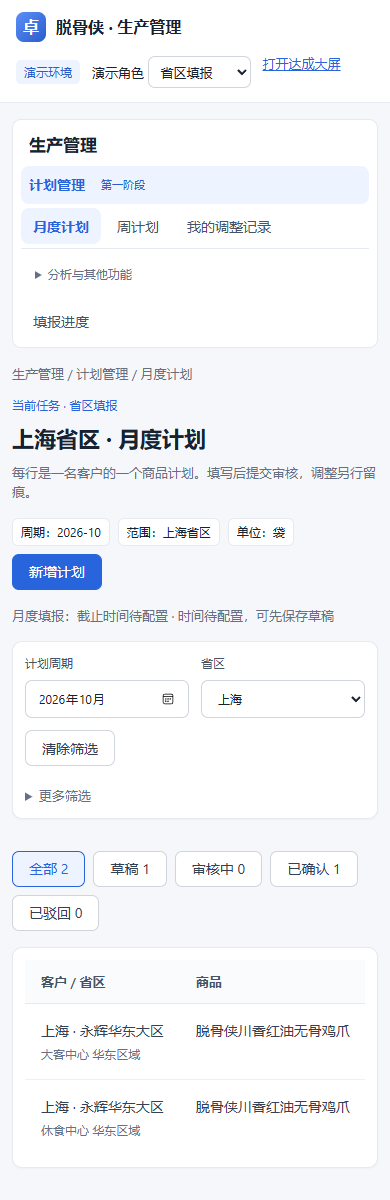
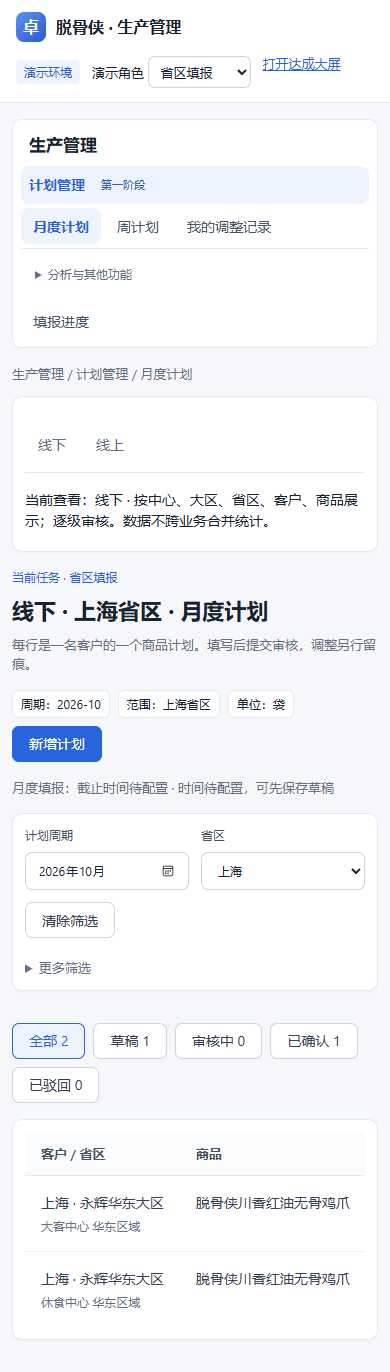
Auto sync 2026-10-12 14:31:31

diff --git a/09-设计与原型/销售计划管理/计划业务补充.js b/09-设计与原型/销售计划管理/计划业务补充.js
@@ -10,7 +10,7 @@
  function fillGuard(d,role,p){initialize(d);const scope=d.access[role];if(scope?.enabled){if(p.business==='offline'&&(!scope.provinces.includes(p.province)||!scope.centers.includes(p.center)||!scope.customers.includes(p.customer)))return '当前演示人员不在该中心、省区或客户授权范围，请联系规则管理员。';if(p.business==='online'&&!scope.channels.includes(p.channel))return '该渠道不在授权范围。';}return '';}
  function floor(d,p){return Math.max(0,SalesPlan.linked(d,p).reduce((s,o)=>s+(o.status==='取消'?0:o.qty-o.returned),0));}
  function adjustGuard(d,p,after){initialize(d);const policy=d.businessSettings.adjustPolicy;if(policy==='pending')return '普通数量调整时限尚未配置，请由规则管理员确认规则后再申请。';if(p.archived)return '已归档计划不能调整。';if(policy==='beforeStart'&&p.start<=today())return '此规则仅允许执行开始前调整。';if(policy==='untilLocked'&&p.productionLocked)return '计划已锁定供生产使用，不能普通调整；请联系计划部门处理。';if(after<floor(d,p))return '调整后数量不能低于已执行净数量 '+floor(d,p)+' '+p.unit+'。';return '';}
- function notify(d,to,title,text){initialize(d);d.notifications.push({id:'N'+Date.now()+Math.random().toString(36).slice(2,6),to,title,text,at:new Date().toISOString(),read:false});}
+ function notify(d,to,title,text){initialize(d);d.notifications.push({id:'N'+Date.now()+Math.random().toString(36).slice(2,6),to,title,text,business:d.plans.find(p=>String(text).split(' · ')[0]===p.id)?.business||'common',at:new Date().toISOString(),read:false});}
  function onLog(d,p,role,action){initialize(d);if(/提交/.test(action))notify(d,SalesPlan.chain(p)[Math.max(0,p.stage)],'计划已提交',p.id+' · '+p.customer+' · '+p.qty+' '+p.unit);if(/驳回|审核通过/.test(action)){notify(d,p.business==='online'?'线上运营':'省区填报',action,p.id);const next=SalesPlan.chain(p)[p.stage+1];if(/通过/.test(action)&&next)notify(d,next,'上级审核待办',p.id);}if(/调整/.test(action)){notify(d,p.business==='online'?'线上运营':'省区填报','计划调整进度',p.id+' · '+action);const pending=d.adjustments.filter(v=>v.plan===p.id&&['待OA审批','待计划部门审核'].includes(v.status)).at(-1);if(pending)notify(d,pending.approver,'计划调整待办',p.id+' · '+pending.reason);}}
  function editable(a,p){return a.role()===(p.business==='online'?'线上运营':'省区填报')&&(p.stage<0||p.rejected)&&!p.archived&&!PlanChange.pending(a.data(),p);}
  function enhanceBatch(a,f,x,ctx){const d=a.data();if(ctx.editing){document.getElementById('addLine').disabled=true;document.getElementById('copyPrevious').disabled=true;const title=document.getElementById('dialogTitle');title.textContent=ctx.editing.rejected?'修改驳回计划 '+ctx.editing.id:'继续编辑草稿 '+ctx.editing.id;const reason=ctx.editing.history.filter(h=>/驳回/.test(h.action)).at(-1);if(reason){const notice=document.createElement('p');notice.className='notice';notice.textContent='驳回意见：'+(reason.opinion||'请核对计划');f.prepend(notice);}return;}
@@ -24,8 +24,8 @@
  function comparison(d,selected){const months=approved(d).filter(p=>canView(d,role,p)&&p.kind==='month'&&selected.some(x=>x.business===p.business&&x.start.slice(0,7)===p.start.slice(0,7)));return `<div class="table-wrap"><table><thead><tr><th>客户 / 渠道</th><th>商品 / 单位</th><th>月计划</th><th>月内完整周计划</th><th>差额</th></tr></thead><tbody>${months.map(p=>{const ws=approved(d).filter(w=>w.kind==='week'&&w.business===p.business&&w.product===p.product&&w.unit===p.unit&&w.center===p.center&&w.area===p.area&&w.province===p.province&&w.customer===p.customer&&w.channel===p.channel&&w.start>=p.start&&w.end<=p.end),sum=ws.reduce((s,w)=>s+w.qty,0);return `<tr><td>${E(p.customer||p.channel)}</td><td>${E(p.product)} / ${p.unit}</td><td>${p.qty}</td><td>${ws.length?sum:'尚无周计划'}</td><td>${ws.length?p.qty-sum:'—'}</td></tr>`;}).join('')}</tbody></table></div><p>跨月周未分摊至自然月；分摊规则待确认，不按整周重复计入两个月。</p>`;}
  function download(name,rows){const csv='\ufeff'+rows.map(row=>row.map(v=>'"'+(typeof v==='string'&&/^[=+@-]/.test(v)?"'"+v:String(v)).replaceAll('"','""')+'"').join(',')).join('\r\n'),url=URL.createObjectURL(new Blob([csv],{type:'text/csv;charset=utf-8'})),b=document.createElement('a');b.href=url;b.download=name;b.click();setTimeout(()=>URL.revokeObjectURL(url),1000);}
  function progress(a){const d=a.data(),f=a.filters(),province=f.province==='all'?'上海':f.province,kind=f.kind,period=f.cycle,cs=SalesPlan.customers.filter(c=>c.province===province),content=document.getElementById('content');content.innerHTML=`<section class="card"><h1>${E(province)}省区 · 填报进度</h1><p>${kind==='month'?'月度':'周'}计划 · ${E(period)}。未报与无需求分别记录，不能用零销量代替。</p><div class="table-wrap"><table><thead><tr><th>客户</th><th>商品明细数</th><th>填报状态</th><th>操作</th></tr></thead><tbody>${cs.map((c,i)=>{const ps=d.plans.filter(p=>p.business==='offline'&&p.province===province&&p.customer===c.name&&p.kind===kind&&(kind==='month'?p.start.slice(0,7)===period:p.start===period)),zero=d.noDemand.find(n=>n.province===province&&n.customer===c.name&&n.kind===kind&&n.period===period);return `<tr><td>${E(c.name)}</td><td>${ps.length}</td><td>${ps.some(p=>p.rejected)?'待补充（有驳回）':ps.some(p=>p.stage>=0&&!p.rejected)?'已提交':ps.length?'草稿未提交':zero?'本期无需求':'未填报'}</td><td>${!ps.length?`<button data-zero="${i}">登记本期无需求</button>`:'请在计划列表继续处理'}${zero?`<small>原因：${E(zero.reason)}</small>`:''}</td></tr>`;}).join('')}</tbody></table></div></section>`;content.querySelectorAll('[data-zero]').forEach(b=>b.onclick=()=>{const c=cs[Number(b.dataset.zero)];a.modal('登记本期无需求',`<p>${E(c.name)} · ${E(period)}</p><label class="field">确认原因<textarea id="zeroReason"></textarea></label><button id="zeroSave">保存无需求记录</button>`);document.getElementById('zeroSave').onclick=()=>{const reason=document.getElementById('zeroReason').value.trim();if(!reason)return a.message('请填写本期无需求原因。');const record={province,customer:c.name,kind,period,reason,by:a.role(),at:new Date().toISOString()};d.noDemand=d.noDemand.filter(n=>!(n.province===province&&n.customer===c.name&&n.kind===kind&&n.period===period));d.noDemand.push(record);if(a.persist()){document.getElementById('dialog').close();a.render();}};});}
- function notifications(a){const d=a.data(),role=a.role(),list=d.notifications.filter(n=>n.to===role&&(!n.plan||d.plans.find(p=>p.id===n.plan)?.business===a.filters().business)),content=document.getElementById('content'),stale=d.plans.filter(p=>!p.rejected&&SalesPlan.chain(p)[p.stage]===role&&p.history.length&&Date.now()-new Date(p.history.at(-1).at)>d.businessSettings.reminderHours*3600000);content.innerHTML=`<section class="card"><h1>我的通知与超时待办</h1><p>本机站内通知演示，不发送企业微信或邮件。超过 ${d.businessSettings.reminderHours} 小时提醒。</p>${stale.map(p=>`<p class="notice">${E(p.id)} 审核待办已超时。</p>`).join('')}<div class="table-wrap"><table><thead><tr><th>通知</th><th>内容</th><th>时间</th><th>状态</th></tr></thead><tbody>${list.map(n=>`<tr><td>${E(n.title)}</td><td>${E(n.text)}</td><td>${E(n.at)}</td><td><button data-read="${n.id}">${n.read?'已读':'标记已读'}</button></td></tr>`).join('')}</tbody></table></div></section>`;content.querySelectorAll('[data-read]').forEach(b=>b.onclick=()=>{const n=d.notifications.find(n=>n.id===b.dataset.read);n.read=true;if(a.persist())a.render();});}
+ function notifications(a){const d=a.data(),role=a.role(),list=d.notifications.filter(n=>n.to===role&&((n.business||d.plans.find(p=>String(n.text).split(' · ')[0]===p.id)?.business||'common')===a.filters().business||n.business==='common')),content=document.getElementById('content'),stale=d.plans.filter(p=>p.business===a.filters().business&&canView(d,role,p)&&!p.rejected&&SalesPlan.chain(p)[p.stage]===role&&p.history.length&&Date.now()-new Date(p.history.at(-1).at)>d.businessSettings.reminderHours*3600000);content.innerHTML=`<section class="card"><h1>我的通知与超时待办</h1><p>本机站内通知演示，不发送企业微信或邮件。超过 ${d.businessSettings.reminderHours} 小时提醒。</p>${stale.map(p=>`<p class="notice">${E(p.id)} 审核待办已超时。</p>`).join('')}<div class="table-wrap"><table><thead><tr><th>通知</th><th>内容</th><th>时间</th><th>状态</th></tr></thead><tbody>${list.map(n=>`<tr><td>${E(n.title)}</td><td>${E(n.text)}</td><td>${E(n.at)}</td><td><button data-read="${n.id}">${n.read?'已读':'标记已读'}</button></td></tr>`).join('')}</tbody></table></div></section>`;content.querySelectorAll('[data-read]').forEach(b=>b.onclick=()=>{const n=d.notifications.find(n=>n.id===b.dataset.read);n.read=true;if(a.persist())a.render();});}
  function config(a){const d=a.data(),admin=a.role()==='规则管理员',s=d.businessSettings,content=document.getElementById('content');content.innerHTML=`<section class="card"><h1>业务规则与人员范围</h1><p>配置仅用于本机原型演示。正式系统需服务端鉴权与事务；换算值必须来自真实商品包装资料。</p><form id="businessConfig"><div class="grid"><label class="field">月周关系<select name="relation"><option value="pending">待确认</option><option value="decomposition">周计划是月计划分解</option><option value="independent">月周独立预测</option></select></label><label class="field">生产需求取数<select name="productionBasis"><option value="month">采用月计划</option><option value="week">采用周计划</option></select></label><label class="field">数量调整时限<select name="adjustPolicy"><option value="pending">待确认，暂停普通调整</option><option value="beforeStart">仅执行开始前</option><option value="untilLocked">生产锁定前允许</option><option value="untilArchive">归档前允许（仍不得低于已执行量）</option></select></label><label class="field">待办提醒小时<input name="reminderHours" type="number" min="1" value="${s.reminderHours}"></label></div><h3>本期填报窗口</h3><div class="grid"><label class="field">计划类型<select name="periodKind"><option value="month">月度</option><option value="week">周</option></select></label><label class="field">计划开始日期<input name="periodStart" type="date"></label><label class="field">开放时间（北京时间）<input name="windowOpen" type="datetime-local"></label><label class="field">截止时间（北京时间）<input name="windowClose" type="datetime-local"></label></div><h3>商品单位换算</h3><div class="grid"><label class="field">商品<select name="mappingProduct">${opt(d.products.map(p=>p.id),'')}</select></label><label class="field">生产标准单位<input name="baseUnit" placeholder="例如袋或千克"></label><label class="field">销售单位<select name="salesUnit">${opt(['箱','包','袋','盒','罐','支'],'箱')}</select></label><label class="field">1销售单位对应标准数量<input name="factor" type="number" min="0.000001" step="any"></label></div><h3>人员演示权限</h3><div class="grid"><label class="field">角色<select name="accessRole">${opt(['省区填报','线上运营','大区审核','中心审核','严总','计划部门'],'省区填报')}</select></label><label class="check"><input name="scopeEnabled" type="checkbox">启用本角色范围限制</label><label class="field">允许中心（逗号分隔）<input name="scopeCenters" placeholder="休食中心,大客中心"></label><label class="field">允许省区（逗号分隔）<input name="scopeProvinces" placeholder="上海,江苏"></label><label class="field">允许客户（逗号分隔）<input name="scopeCustomers" placeholder="永辉华东大区"></label><label class="field">允许渠道（逗号分隔）<input name="scopeChannels" placeholder="天猫,京东"></label></div><div class="error" id="configError" role="alert"></div><div class="actions"><button ${admin?'':'disabled'}>保存配置</button></div></form><h3>已配置周期与变更记录</h3>${Object.entries(d.periodWindows).map(([k,w])=>`<p>${E(k)} · ${E(w.open)} 至 ${E(w.close)}</p>`).join('')||'<p>尚未配置本期窗口</p>'}${d.businessHistory.slice(-5).map(h=>`<p>${E(h.at)} · ${E(h.by)} · ${E(h.action)}</p>`).join('')}</section>`;const f=document.getElementById('businessConfig');for(const k of ['relation','productionBasis','adjustPolicy'])f[k].value=s[k];f.accessRole.onchange=()=>{const scope=d.access[f.accessRole.value];f.scopeEnabled.checked=!!scope?.enabled;for(const [field,key] of [['scopeCenters','centers'],['scopeProvinces','provinces'],['scopeCustomers','customers'],['scopeChannels','channels']])f[field].value=scope?.[key]?.join(',')||'';};f.accessRole.onchange();f.onsubmit=e=>{e.preventDefault();if(!admin)return;let err='';const hasPeriod=!!(f.periodStart.value||f.windowOpen.value||f.windowClose.value);if(hasPeriod&&(!f.periodStart.value||!f.windowOpen.value||!f.windowClose.value||f.windowOpen.value>=f.windowClose.value))err='请填写完整本期窗口，截止必须晚于开放。';if(hasPeriod&&(f.periodKind.value==='month'&&!f.periodStart.value.endsWith('-01')||f.periodKind.value==='week'&&new Date(f.periodStart.value+'T12:00:00').getDay()!==1))err='月周期开始必须为1日，周周期开始必须为周一。';if(f.factor.value&&(!f.baseUnit.value.trim()||Number(f.factor.value)<=0))err='换算必须有标准单位及正数系数。';if(Number(f.reminderHours.value)<1)err='提醒小时必须大于零。';document.getElementById('configError').textContent=err;if(err)return;const before=structuredClone({settings:d.businessSettings,windows:d.periodWindows,mappings:d.unitMappings,access:d.access});d.businessSettings={relation:f.relation.value,productionBasis:f.productionBasis.value,adjustPolicy:f.adjustPolicy.value,reminderHours:Number(f.reminderHours.value)};if(hasPeriod)d.periodWindows[f.periodKind.value+':'+f.periodStart.value]={open:f.windowOpen.value+':00+08:00',close:f.windowClose.value+':00+08:00'};if(f.factor.value){const p=f.mappingProduct.value,m=d.unitMappings[p]||{baseUnit:f.baseUnit.value.trim(),factors:{}};if(m.baseUnit!==f.baseUnit.value.trim()){document.getElementById('configError').textContent='该商品已存在另一标准单位，不能直接覆盖；请先核对包装换算。';d.businessSettings=before.settings;d.periodWindows=before.windows;return;}m.factors[f.salesUnit.value]=Number(f.factor.value);m.factors[m.baseUnit]=1;d.unitMappings[p]=m;}const split=v=>v.split(/[,，]/).map(s=>s.trim()).filter(Boolean);d.access[f.accessRole.value]={enabled:f.scopeEnabled.checked,centers:split(f.scopeCenters.value),provinces:split(f.scopeProvinces.value),customers:split(f.scopeCustomers.value),channels:split(f.scopeChannels.value)};d.businessHistory.push({at:new Date().toISOString(),by:a.role(),action:'更新业务配置',before,after:structuredClone({settings:d.businessSettings,windows:d.periodWindows,mappings:d.unitMappings,access:d.access})});if(a.persist()){a.render();a.message('业务配置已保存。');}};}
- function decorate(a){const d=a.data();initialize(d);if(document.body.dataset.page==='screen')return;const role=a.role(),view=a.view(),nav=document.querySelector('nav'),more=nav.querySelector('.nav-more')||nav;for(const [name,key] of [['已确认需求总表','demand'],['填报进度','progress'],['通知与待办','notifications'],['业务规则与权限','businessRules']]){if(key==='progress'&&role!=='省区填报'||key==='businessRules'&&role!=='规则管理员'||key==='demand'&&!['计划部门','严总','中心审核'].includes(role))continue;const b=document.createElement('button');b.textContent=name;b.setAttribute('aria-current',String(view===key));b.onclick=()=>a.setView(key);(key==='notifications'?more:nav).append(b);}if(view==='demand')demand(a);if(view==='progress')progress(a);if(view==='notifications')notifications(a);if(view==='businessRules')config(a);if(view==='rules'){const card=document.querySelector('#content>.card');const notice=document.createElement('div');notice.className='notice';notice.innerHTML='本页旧全局时间只保留历史演示。新计划填报须在“业务规则与权限”按具体月／周设置窗口。';card?.prepend(notice);}document.querySelectorAll('[data-action=detail]').forEach(b=>{const p=d.plans.find(p=>p.id===b.dataset.id);if(!p||!editable(a,p))return;const btn=document.createElement('button');btn.textContent=p.rejected?'修改后重提':'继续编辑';btn.onclick=()=>SalesUX.batch(a,{edit:p});b.closest('td')?.append(btn);});if(role==='计划部门'&&view==='demand'){document.querySelectorAll('[data-demand-detail]').forEach(b=>b.addEventListener('click',()=>{const dialog=document.getElementById('dialog');dialog.querySelectorAll('[data-action=detail]').forEach(btn=>{const p=d.plans.find(p=>p.id===btn.dataset.id),lock=document.createElement('button');lock.textContent=p.productionLocked?'解除生产锁定':'锁定供生产使用';lock.onclick=()=>{p.productionLocked=!p.productionLocked;a.log(p,p.productionLocked?'生产取数锁定':'解除生产锁定');if(a.persist()){dialog.close();a.render();}};btn.closest('td').append(lock);});}));}}
+ function decorate(a){const d=a.data();initialize(d);if(document.body.dataset.page==='screen')return;const role=a.role(),view=a.view(),nav=document.querySelector('nav'),more=nav.querySelector('.nav-more')||nav;for(const [name,key] of [['已确认需求总表','demand'],['填报进度','progress'],['通知与待办','notifications'],['业务规则与权限','businessRules']]){if(key==='progress'&&!['省区填报','线上运营'].includes(role)||key==='businessRules'&&role!=='规则管理员'||key==='demand'&&!['计划部门','严总','中心审核'].includes(role))continue;const b=document.createElement('button');b.textContent=name;b.setAttribute('aria-current',String(view===key));b.onclick=()=>a.setView(key);(key==='notifications'?more:nav).append(b);}if(view==='demand')demand(a);if(view==='progress')progress(a);if(view==='notifications')notifications(a);if(view==='businessRules')config(a);if(view==='rules'){const card=document.querySelector('#content>.card');const notice=document.createElement('div');notice.className='notice';notice.innerHTML='本页旧全局时间只保留历史演示。新计划填报须在“业务规则与权限”按具体月／周设置窗口。';card?.prepend(notice);}document.querySelectorAll('[data-action=detail]').forEach(b=>{const p=d.plans.find(p=>p.id===b.dataset.id);if(!p||!editable(a,p))return;const btn=document.createElement('button');btn.textContent=p.rejected?'修改后重提':'继续编辑';btn.onclick=()=>SalesUX.batch(a,{edit:p});b.closest('td')?.append(btn);});if(role==='计划部门'&&view==='demand'){document.querySelectorAll('[data-demand-detail]').forEach(b=>b.addEventListener('click',()=>{const dialog=document.getElementById('dialog');dialog.querySelectorAll('[data-action=detail]').forEach(btn=>{const p=d.plans.find(p=>p.id===btn.dataset.id),lock=document.createElement('button');lock.textContent=p.productionLocked?'解除生产锁定':'锁定供生产使用';lock.onclick=()=>{p.productionLocked=!p.productionLocked;a.log(p,p.productionLocked?'生产取数锁定':'解除生产锁定');if(a.persist()){dialog.close();a.render();}};btn.closest('td').append(lock);});}));}}
  window.PlanBusiness={initialize,snapshot,periodState,fillGuard,canView,adjustGuard,notify,onLog,enhanceBatch,reviewQuantity,decorate};
 })();

diff --git a/09-设计与原型/销售计划管理/审核状态视图.js b/09-设计与原型/销售计划管理/审核状态视图.js
@@ -3,6 +3,6 @@
  function decorate(api){const role=api.role(),view=api.view(),d=api.data();if(view==='review'&&role==='丹总')online(api,d,role);if(view==='adjustments')adjustments(api,d,role);}
  function tabs(host,key,counts,apply){let state=states[key]||'pending';host.innerHTML=`<div class="summary-tabs" role="tablist" aria-label="审核数据状态"><button role="tab" data-audit-state="pending">待审核 ${counts.pending}</button><button role="tab" data-audit-state="completed">已审核 ${counts.completed}</button></div>`;const paint=()=>{host.querySelectorAll('[data-audit-state]').forEach(b=>{b.setAttribute('aria-selected',String(b.dataset.auditState===state));b.tabIndex=b.dataset.auditState===state?0:-1;});apply(state);};host.querySelectorAll('[data-audit-state]').forEach(b=>{b.onclick=()=>{state=b.dataset.auditState;states[key]=state;paint();};b.onkeydown=e=>{if(['ArrowLeft','ArrowRight'].includes(e.key)){e.preventDefault();host.querySelector('[data-audit-state="'+(state==='pending'?'completed':'pending')+'"]').click();host.querySelector('[aria-selected=true]').focus();}};});paint();}
  function online(api,d,role){document.getElementById('onlyMine')?.closest('.card')?.remove();const table=[...document.querySelectorAll('#content>.card table')].find(t=>t.querySelector('[data-action=detail]'));if(!table)return;const rows=[...table.querySelectorAll('tbody tr')],record=p=>p.history.filter(h=>h.by===role&&/审核/.test(h.action)&&!/调整|加急/.test(h.action)).at(-1),pending=p=>!p.rejected&&!p.archived&&!PlanChange.pending(d,p)&&SalesPlan.chain(p)[p.stage]===role;const pairs=rows.map(row=>({row,p:d.plans.find(p=>p.id===row.querySelector('[data-action=detail]')?.dataset.id)}));table.querySelector('thead tr').insertAdjacentHTML('beforeend','<th class="audit-info">审核结果</th><th class="audit-info">审核意见 / 时间</th>');pairs.forEach(({row,p})=>{for(let i=0;i<2;i++){const td=document.createElement('td');td.className='audit-info';const h=record(p);td.textContent=i===0?(h?.action.includes('驳回')?'驳回':h?'通过':'—'):(h?(h.opinion||'无补充意见')+' · '+h.at:'—');row.append(td);}});const host=document.createElement('div');table.closest('.card').prepend(host);tabs(host,role,{pending:pairs.filter(x=>pending(x.p)).length,completed:pairs.filter(x=>record(x.p)).length},state=>{pairs.forEach(({row,p})=>row.hidden=state==='pending'?!pending(p):!record(p));table.querySelectorAll('.audit-info').forEach(e=>e.hidden=state!=='completed');});}
- function adjustments(api,d,role){const old=document.getElementById('adjustMine');if(!old)return;const card=document.querySelector('#content>.card'),table=card?.querySelector('table');if(!table)return;const pending=a=>['待OA审批','待计划部门审核'].includes(a.status)&&a.approver===role,done=a=>(!!a.reviewAt&&a.approver===role)||a.approvals?.some(h=>h.by===role);const rows=[...table.querySelectorAll(':scope>tbody>tr')],pairs=rows.map((row,i)=>({row,a:d.adjustments[i]}));if(!['省区填报','线上运营'].includes(role)){old.closest('.task-counts').remove();const host=document.createElement('div');card.prepend(host);tabs(host,'adjust-'+role,{pending:pairs.filter(x=>pending(x.a)).length,completed:pairs.filter(x=>done(x.a)).length},state=>pairs.forEach(({row,a})=>row.hidden=state==='pending'?!pending(a):!done(a)));}}
+ function adjustments(api,d,role){const old=document.getElementById('adjustMine');if(!old)return;const card=document.querySelector('#content>.card'),table=card?.querySelector('table');if(!table)return;const scoped=a=>{const p=d.plans.find(p=>p.id===a.plan);return p&&p.business===api.filters().business&&PlanBusiness.canView(d,role,p);},pending=a=>scoped(a)&&['待OA审批','待计划部门审核'].includes(a.status)&&a.approver===role,done=a=>scoped(a)&&((!!a.reviewAt&&a.approver===role)||a.approvals?.some(h=>h.by===role));const rows=[...table.querySelectorAll(':scope>tbody>tr')],pairs=rows.map((row,i)=>({row,a:d.adjustments[i]}));if(!['省区填报','线上运营'].includes(role)){old.closest('.task-counts').remove();const host=document.createElement('div');card.prepend(host);tabs(host,'adjust-'+role+'-'+api.filters().business,{pending:pairs.filter(x=>pending(x.a)).length,completed:pairs.filter(x=>done(x.a)).length},state=>pairs.forEach(({row,a})=>row.hidden=state==='pending'?!pending(a):!done(a)));}}
  window.AuditStateUI={decorate};
 })();

diff --git a/09-设计与原型/销售计划管理/线上线下表格.js b/09-设计与原型/销售计划管理/线上线下表格.js
@@ -7,7 +7,7 @@
   document.querySelector('[data-filter=business]')?.closest('label')?.remove();
   content.querySelector('h1')?.insertAdjacentText('afterbegin',label(f.business)+' · ');
   if(view==='adjustments'){const table=content.querySelector('.card:not(.business-switch) table');table?.querySelectorAll(':scope>tbody>tr').forEach((row,i)=>{const p=d.plans.find(p=>p.id===d.adjustments[i]?.plan);row.hidden=row.hidden||!p||p.business!==f.business||!PlanBusiness.canView(d,a.role(),p);});}
-  if(view==='products'){const table=content.querySelector('table');table?.querySelectorAll(':scope>tbody>tr').forEach((row,i)=>{const scope=d.products[i]?.scope;row.hidden=!(scope==='all'||scope===f.business);});}
+  if(view==='products'){const table=content.querySelector('table');table?.querySelectorAll(':scope>tbody>tr').forEach((row,i)=>{const scope=d.products[i]?.scope;row.hidden=!(scope==='all'||scope==='全部'||scope===f.business||scope===label(f.business));});}
   if(view==='progress'&&f.business==='online'){const ps=a.rows();content.querySelectorAll(':scope>.card:not(.business-switch),:scope>.task-context').forEach(e=>e.remove());const section=document.createElement('section');section.className='card';section.innerHTML='<h1>线上 · 渠道填报进度</h1><div class="table-wrap"><table><thead><tr><th>渠道</th><th>商品明细数</th><th>填报状态</th></tr></thead><tbody>'+SalesPlan.channels.map(c=>{const xs=ps.filter(p=>p.channel===c);return '<tr><td>'+c+'</td><td>'+xs.length+'</td><td>'+(xs.some(p=>p.rejected)?'待补充':xs.some(p=>p.stage>=0)?'已提交':xs.length?'草稿未提交':'未填报')+'</td></tr>';}).join('')+'</tbody></table></div>';content.append(section);}
  }
  window.BusinessTables={decorate};
